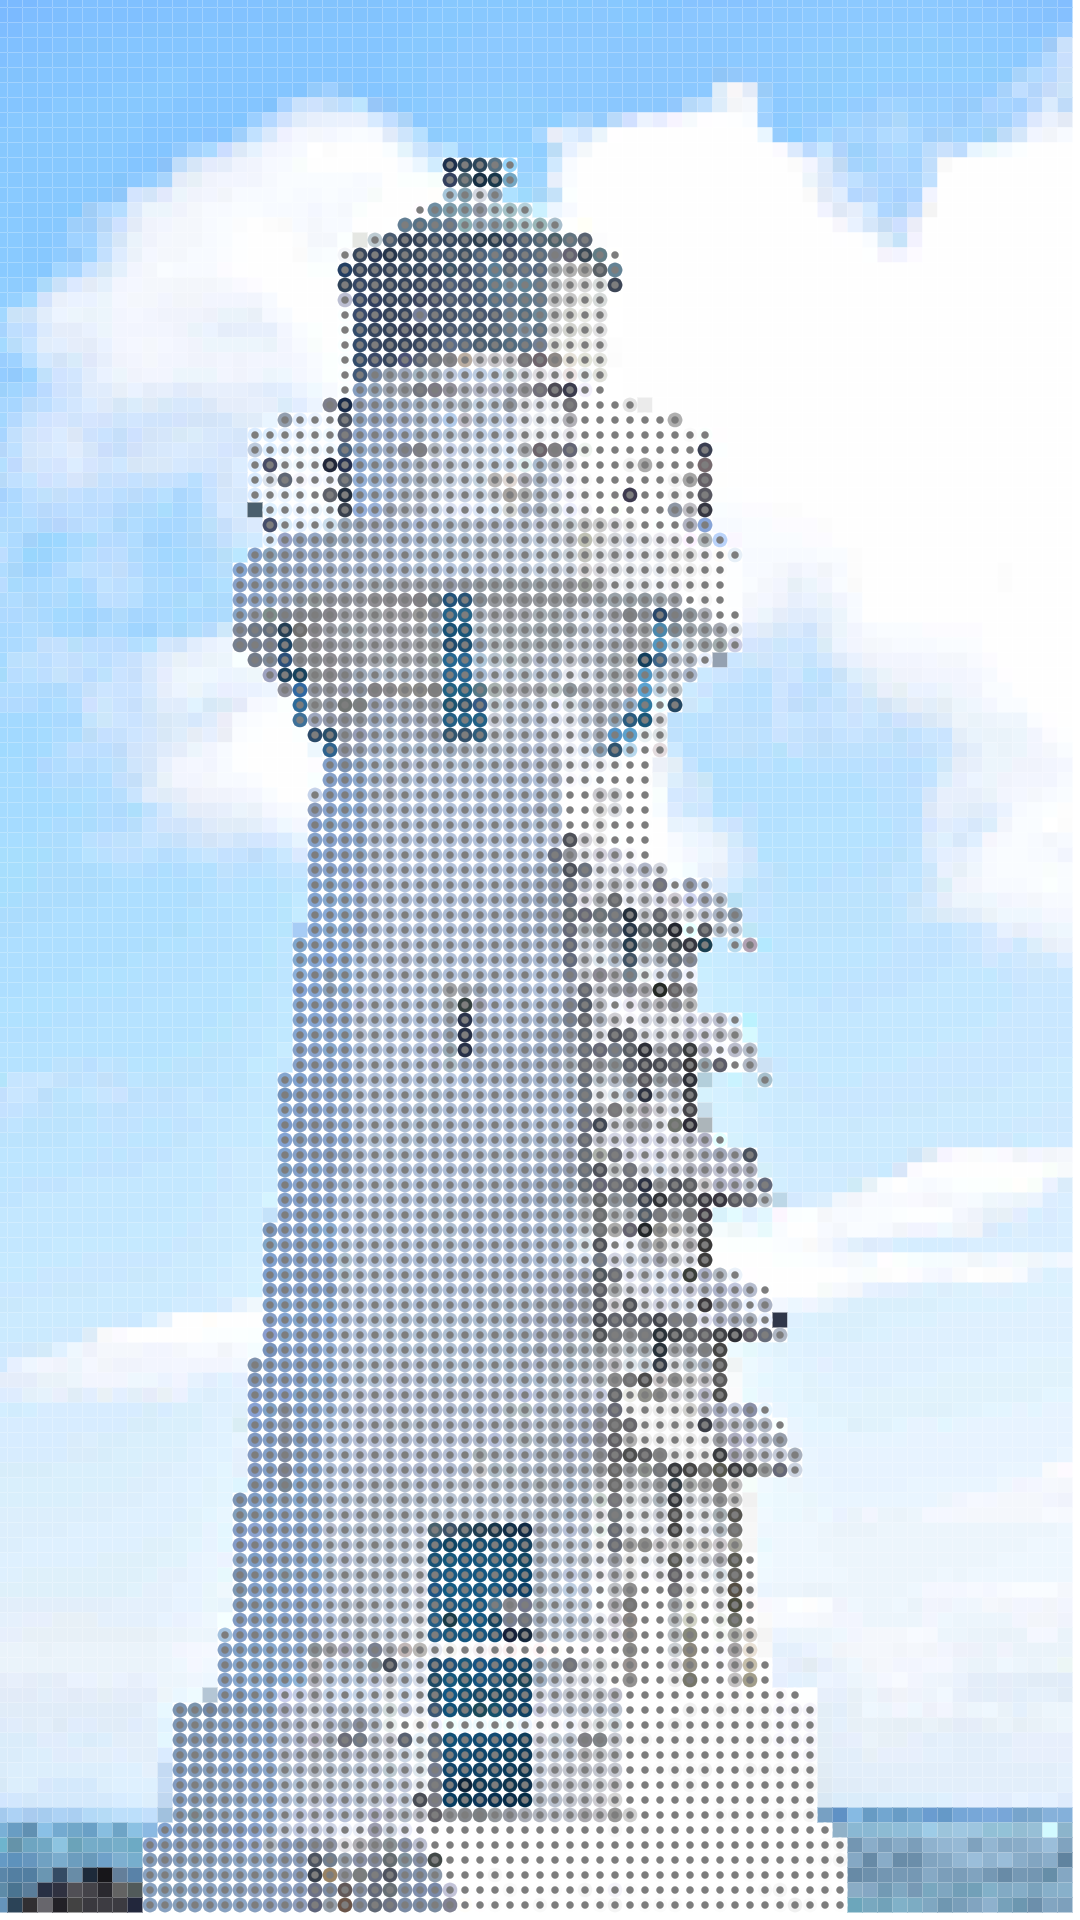
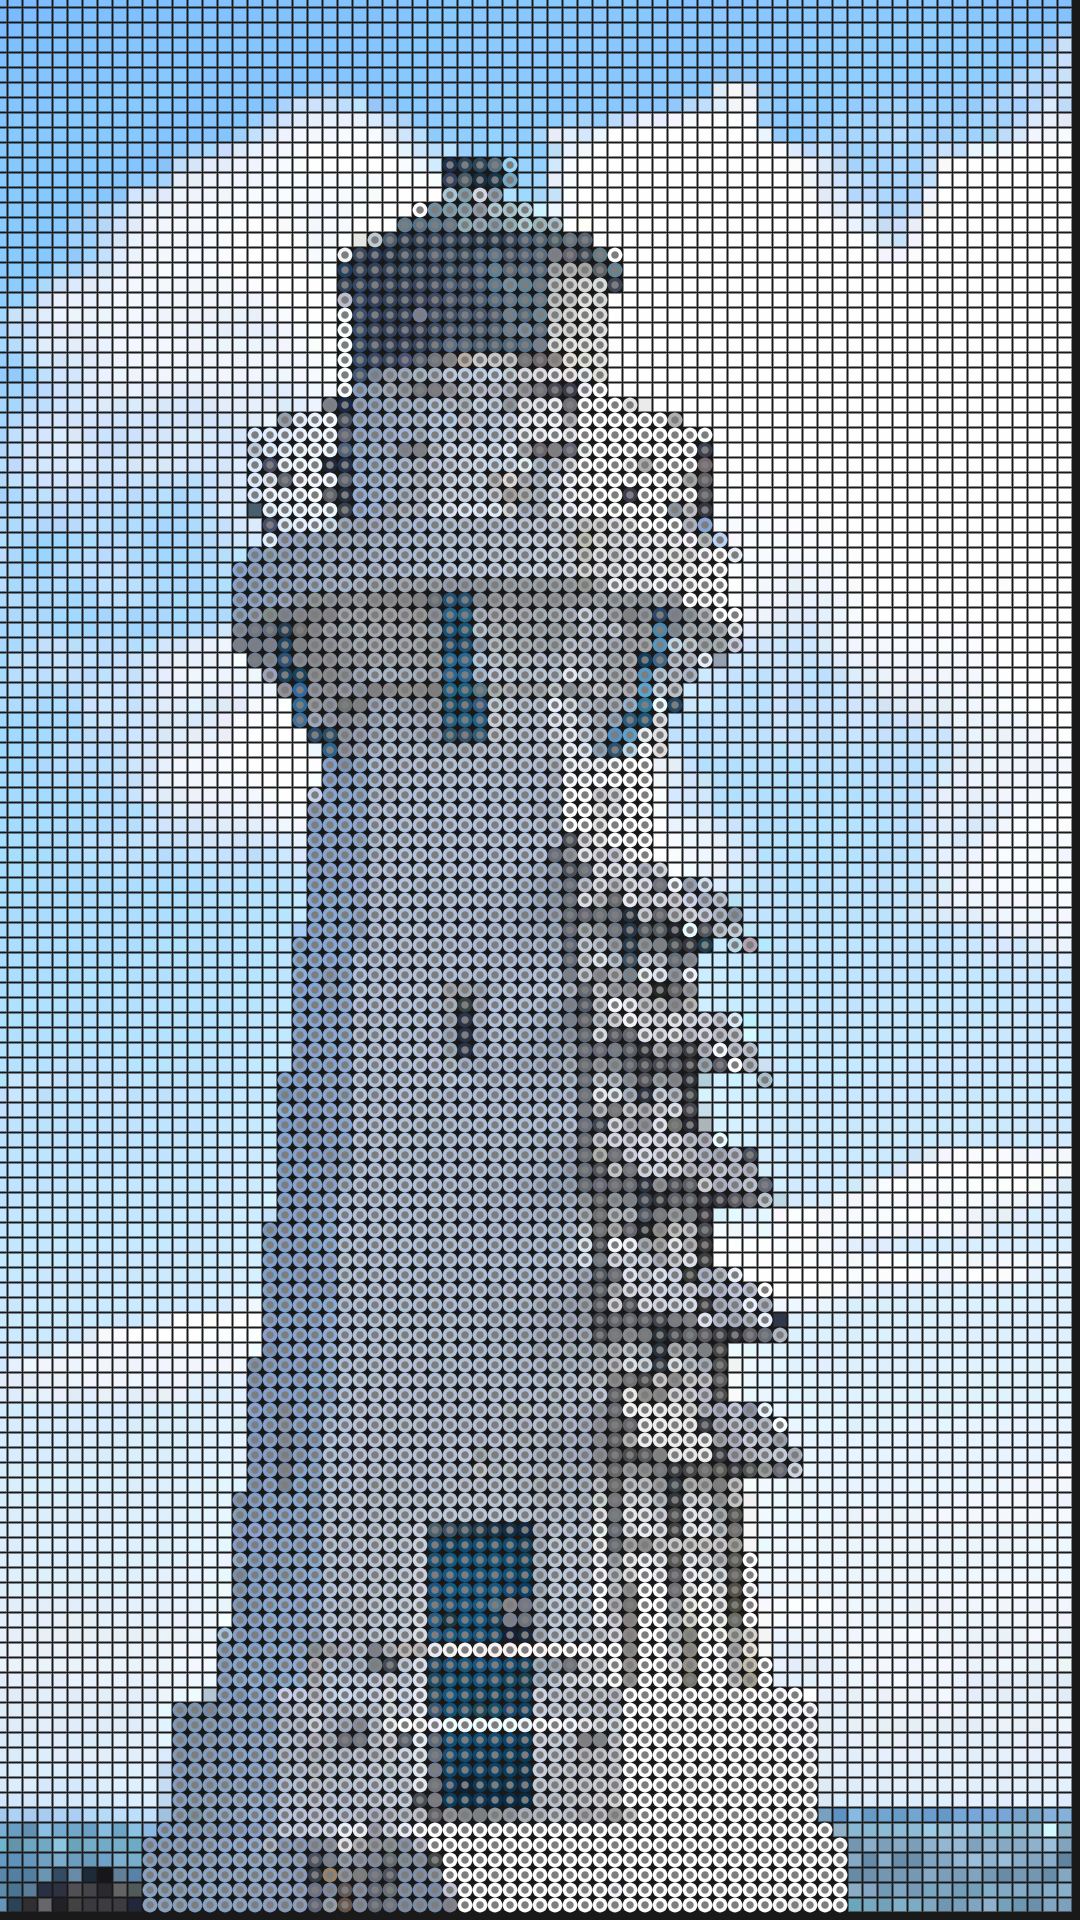
new updates

diff --git a/sketch.js b/sketch.js
@@ -1,7 +1,7 @@
 let finalVersion = false; 
 
 let elementSpacing = 15;
-let squareSize = 15;
+let squareSize = 13;
 let circleSize = 35;
 
 if(finalVersion) {
@@ -27,7 +27,7 @@ function setup () {
 
   imageMode(CENTER);
   noStroke();
-  background(255);
+  background(25);
   sourceImg.loadPixels();
   maskImg.loadPixels();
 }
